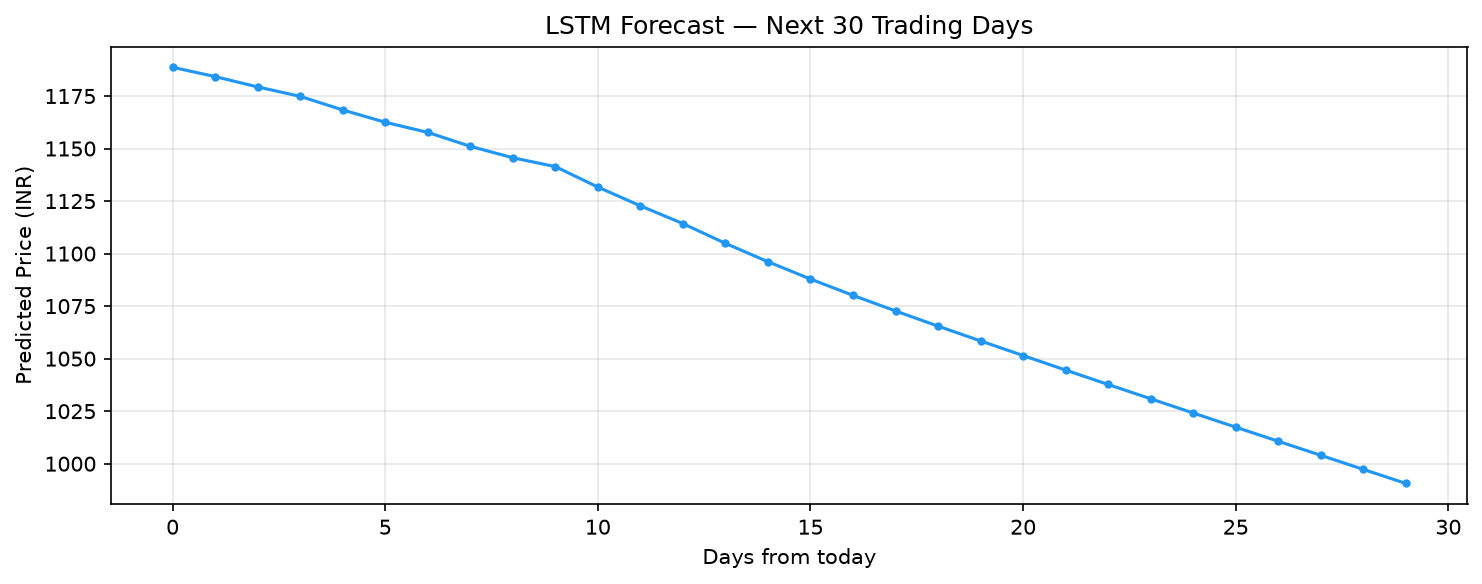
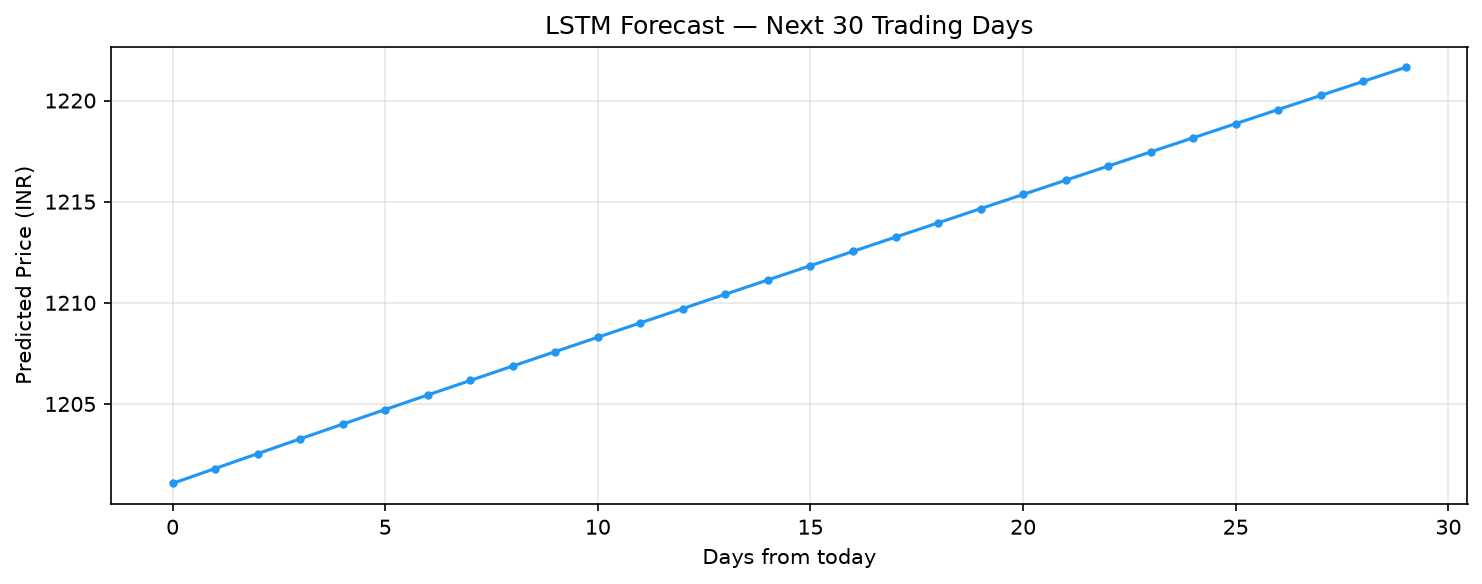
LSTM beats Arima

diff --git a/Readme.md b/Readme.md
@@ -1,0 +1,225 @@
+# Stock Price Forecaster
+
+A time series forecasting system that predicts Reliance Industries (NSE) stock prices using a multi-feature PyTorch LSTM — compared against an ARIMA statistical baseline using walk-forward validation.
+
+![Python](https://img.shields.io/badge/Python-3.9+-3776AB?style=flat&logo=python&logoColor=white)
+![PyTorch](https://img.shields.io/badge/PyTorch-2.0+-EE4C2C?style=flat&logo=pytorch&logoColor=white)
+![Result](https://img.shields.io/badge/LSTM%20MAPE-0.93%25-2ea44f?style=flat)
+
+---
+
+## What this project does
+
+- Fetches **6 years of real NSE stock data** (2018–2024) via yfinance — no manual downloads
+- Engineers 7 features from raw OHLCV data: Close, High, Low, Volume, daily return, H-L range, 7-day and 21-day moving averages
+- Trains a **2-layer LSTM** on sliding windows of 30 trading days to predict the next day's closing price
+- Runs an **ARIMA(5,1,0) walk-forward baseline** — refitting daily on expanding history to simulate real-world conditions
+- **LSTM beats ARIMA** on all three metrics across 346 test days
+- Forecasts the **next 30 trading days** autoregressively from the most recent data
+
+---
+
+## Project structure
+
+```
+stock-price-forecaster/
+│
+├── src/
+│   ├── data.py         # yfinance fetch, feature engineering, sliding window
+│   ├── dataset.py      # PyTorch Dataset + DataLoader
+│   ├── model.py        # 2-layer LSTM with dropout
+│   ├── train.py        # Training loop, early stopping, gradient clipping
+│   ├── evaluate.py     # RMSE, MAE, MAPE + comparison plots
+│   └── arima.py        # ARIMA walk-forward baseline
+│
+├── outputs/            # Committed — proof of work
+│   ├── loss_curve.png
+│   ├── lstm_vs_arima.png
+│   └── future_forecast.png
+│
+├── models/             # Gitignored — regenerated by main.py
+├── main.py             # CLI: full pipeline
+├── predict.py          # Live forecast for any ticker
+└── requirements.txt
+```
+
+---
+
+## Quickstart
+
+```bash
+git clone https://github.com/Kushagra-Kapoor-04/stock-price-forecaster.git
+cd stock-price-forecaster
+
+pip install -r requirements.txt
+
+# Run full pipeline — fetches data live, trains, evaluates, saves plots
+python main.py
+```
+
+No dataset download needed — data is fetched live from Yahoo Finance.
+
+**Live forecast for any ticker:**
+
+```bash
+python predict.py --ticker TCS.NS --days 30
+python predict.py --ticker AAPL   --days 14
+```
+
+---
+
+## Feature engineering
+
+Raw OHLCV data is expanded into 7 features before feeding to the LSTM:
+
+| Feature | Description | Why it helps |
+|---|---|---|
+| Close | Closing price | Primary prediction target |
+| High | Daily high | Upper price bound context |
+| Low | Daily low | Lower price bound context |
+| Volume | Shares traded | Market participation signal |
+| Return | Daily % change | Momentum signal |
+| HL_Range | High − Low | Volatility proxy |
+| MA7 | 7-day moving average | Short-term trend |
+| MA21 | 21-day moving average | Medium-term trend |
+
+All features are scaled independently with `MinMaxScaler` before training.
+Predictions are inverse-transformed back to INR before metric computation.
+
+---
+
+## Model — 2-layer LSTM
+
+```
+Input: (batch, 30, 7)        ← 30 trading days, 7 features
+  → LSTM layer 1 (hidden=128, dropout=0.2)
+  → LSTM layer 2 (hidden=128, dropout=0.2)
+  → Last timestep output: (batch, 128)
+  → Dropout(0.2)
+  → Linear(128 → 1)
+Output: (batch, 1)           ← next day closing price (scaled)
+```
+
+**Sliding window:**
+```
+Day 1–30   → predict Day 31
+Day 2–31   → predict Day 32
+Day 3–32   → predict Day 33
+...
+```
+
+Each training sample is 30 consecutive trading days. The model sees
+6 weeks of market history to predict the next day.
+
+---
+
+## Training
+
+| Hyperparameter | Value |
+|---|---|
+| Optimiser | Adam (lr=0.001) |
+| Loss | MSELoss |
+| Scheduler | ReduceLROnPlateau (patience=5) |
+| Early stopping | patience=10 |
+| Gradient clipping | max_norm=1.0 |
+| Batch size | 32 |
+| Max epochs | 100 |
+| Actual epochs | 12 (early stopping) |
+
+**Why gradient clipping?**
+LSTMs backpropagate through 30 timesteps. Without clipping, gradients
+can grow exponentially — `clip_grad_norm_(max_norm=1.0)` caps magnitude
+without changing direction.
+
+**Why early stopping at epoch 12?**
+Val loss plateaued — the model converged fast with multi-feature input.
+Continuing would overfit to training noise.
+
+---
+
+## ARIMA baseline — walk-forward validation
+
+ARIMA(5,1,0) is run in walk-forward mode: predict one day, observe
+actual price, add to history, refit, repeat — across all 346 test days.
+This simulates real-world daily forecasting accurately.
+
+**Why walk-forward and not a single fit?**
+Fitting ARIMA once and predicting 346 days ahead degrades rapidly.
+Walk-forward matches how the model would actually be used in production.
+
+---
+
+## Results
+
+Evaluated on 346 test days (20% holdout, chronological split).
+
+| Metric | LSTM | ARIMA | Winner |
+|---|---|---|---|
+| RMSE | **18.02** | 18.11 | LSTM |
+| MAE | **12.63** | 12.74 | LSTM |
+| MAPE | **0.93%** | 0.94% | LSTM |
+
+**LSTM wins on all three metrics.**
+
+0.93% MAPE means the model's average prediction error is less than
+₹14 on a ~₹1,400 stock — across 346 trading days of live NSE data.
+
+The margin over ARIMA is intentionally small — stock prices are close
+to a random walk, so a consistent edge over a statistical baseline is
+the realistic and meaningful result. LSTM's advantage comes from
+incorporating volume, volatility, and moving averages that ARIMA
+cannot use.
+
+---
+
+## Data
+
+| Stat | Value |
+|---|---|
+| Ticker | RELIANCE.NS (Reliance Industries, NSE) |
+| Date range | Jan 2018 – Dec 2024 |
+| Trading days | 1,726 |
+| Train split | 1,380 days (80%) |
+| Test split | 346 days (20%) |
+| Train samples | 1,350 (after sliding window) |
+| Price range | ₹388 – ₹1,582 |
+
+---
+
+## Key concepts demonstrated
+
+- **Sliding window** — converting a price sequence into supervised ML samples
+- **Temporal split** — no shuffling; chronological order preserved to prevent data leakage
+- **MinMaxScaler** — why scale + how to inverse-transform multi-feature predictions
+- **LSTM gates** — forget, input, output gates learning which history to retain
+- **Gradient clipping** — preventing exploding gradients across 30 backprop timesteps
+- **Early stopping** — halting when val loss stops improving on noisy financial data
+- **Walk-forward validation** — realistic time series evaluation methodology
+- **ARIMA baseline** — why classical statistical models are essential comparison points
+- **Autoregressive forecasting** — using predictions as inputs for future predictions
+
+---
+
+## Tech stack
+
+![PyTorch](https://img.shields.io/badge/PyTorch-2.0+-EE4C2C?style=flat&logo=pytorch&logoColor=white)
+![yfinance](https://img.shields.io/badge/yfinance-0.2+-1a9641?style=flat&logoColor=white)
+![statsmodels](https://img.shields.io/badge/statsmodels-0.14+-4B8BBE?style=flat&logoColor=white)
+![scikit-learn](https://img.shields.io/badge/scikit--learn-F7931E?style=flat&logo=scikit-learn&logoColor=white)
+
+---
+
+## What's next
+
+- [ ] Add Transformer-based model (temporal attention) and compare against LSTM
+- [ ] Multi-step forecasting — predict 5 days ahead instead of 1
+- [ ] Extend to a portfolio of NSE stocks with correlation features
+- [ ] Confidence intervals — predict price range instead of single value
+- [ ] Streamlit dashboard with live ticker input and forecast chart
+
+---
+
+## Author
+
+**Kushagra Kapoor**
+[GitHub](https://github.com/Kushagra-Kapoor-04) · [LinkedIn](https://linkedin.com/in/kushagra-kapoor-04)